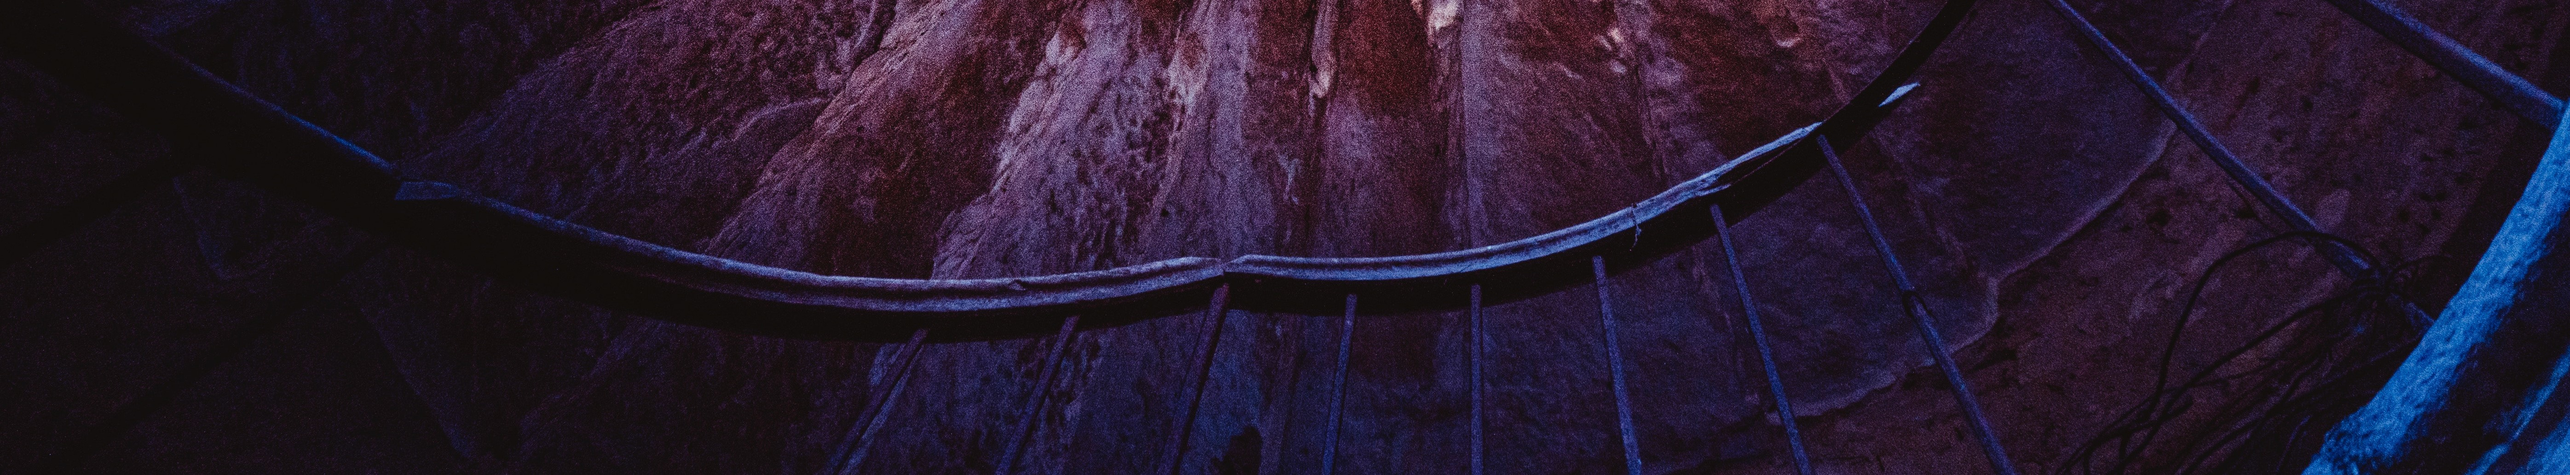
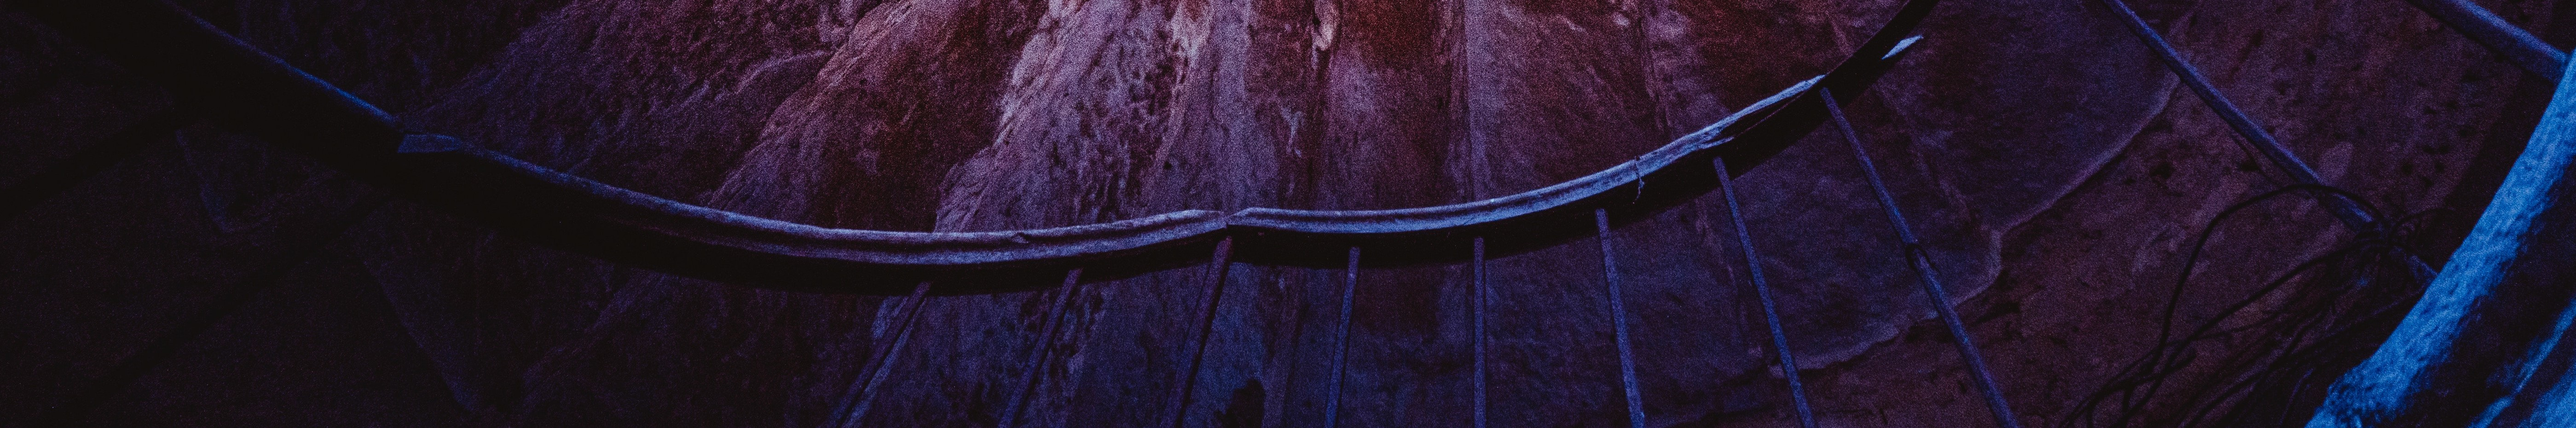
Content section started
Change home page gradient and added a knife. Also, started the content section adding the about me.

diff --git a/src/components/HomeComponents/content.js b/src/components/HomeComponents/content.js
@@ -1,18 +1,22 @@
 import React from 'react';
 import styled from 'styled-components';
 import { Container } from 'react-bootstrap';
+
 import ser from './content.jpg';
+import selfie from './foto.jpg';
+
 
 const Content = (props) => {
+
     const Styles = styled.div`
     .container 
     {   
         display: flex;
-        flex-direction: column;
+        flex-direction: row;
         margin-top: 50px;
         z-index: 5;
         color: white;
-        align-content: center;
+    
 
 
     }
@@ -27,43 +31,123 @@ const Content = (props) => {
         right: 0;
         z-index: -3;
         position: fixed;
+
         }
 
         .about 
         {
-            margin-top: -210px;
-            text-align: center;
-            color: #fd7c30;
+            margin-top: 90px;
+            text-align: center;            
+            color: white;
             font-size: 3.5rem;
-            font-family: 'Raleway', sans-serif;
+            font-family: 'Roboto', sans-serif;
             font-weight: 300;
+            z-index: 1;
+            
+           
+
+        }
+
+        .quote
+        {
+            margin-top: 140px;
+            font-family: "Roboto", sans-serif;
+            font-weight: 400px;
+            font-size: 3rem;
+            color: #0d1c4f;
+            margin-right: 70px;
+            text-align: center;
         }
 
         .circle
         {
-        margin-top:40.5px;
-        height: 250px;
-        width:1515px;
-        border-radius: 0 0 1500px 1500px;
+    
         background-image: url(${ser});
         background-size: 100%;
-        margin-left: -218px;
-        
-        z-index: -3;
+        background: contain;
+        height: 240px;
+        width: 1520px;
+        background-repeat: no-repeat;
+        margin-top: 60px;
+        clip-path: polygon(100% 0, 100% 100%, 0% 0%);
+        z-index: 2;
+        float: left;
+        margin-left: -220px;
+    }
 
-        }
+    .circle1
+        {
+    
+        background-color: #FAFAFA;
+        height: 240px;
+        width: 1520px;
+        margin-top: -237.5px;
+        clip-path: polygon(0 100%, 100% 100%, 0% 0%);
+        float: left;
+        margin-left: -220px;
+        z-index: 2;
+        opacity: 1;
+        position: relative;
+    }
+
+    .gradient
+    {
+      margin-top: 541px;
+      background: rgb(13,28,79);
+      background: linear-gradient(0deg, rgba(13,28,79,1) 3%, rgba(51,8,84,0.6139589624912465) 100%); 
+            top: 0;
+      left: 0;
+      bottom: -240px;
+      right: 0;
+      z-index: 1;
+      position: absolute;
+    }
+
+       
+    .selfie
+    {
+        background-image: url(${selfie});
+        background-size: 100%;
+        background: contain;
+        height: 300px;
+        width: 300px;
+        margin-top: 100px;
+        border-radius: 50%;
+        
+    }
+
+    .selfbg
+    {
+    
+        
+        width: 300px;
+        height: 300px;
+        margin-top: 100px;
+        margin-left: -30px;
+        border-radius: 50%;
+        background: rgb(121,36,106);
+        background: linear-gradient(138deg, rgba(121,36,106,1) 0%, rgba(13,28,79,1) 99%); 
+        
+        
+    }
     `;
 
     return(
         <Styles>
            <div className="back"></div>
            <div className="circle"></div>
+           <div className="circle1"></div>
+           <div className='gradient'></div>
             <Container>
             
-            <h1 className="about">About Me</h1>
-            
-            
+            <h1 className="quote">"Where nobody can see, <br/> I find a way."</h1>
+            <div className="selfie">            </div>
             </Container>
+
+            <Container>
+                <div className="selfbg"></div>
+            </Container>
+            
         </Styles>
 
     );

diff --git a/src/components/HomeComponents/body.js b/src/components/HomeComponents/body.js
@@ -6,6 +6,8 @@ import Content from './content';
 import boatImage from './bg1.jpg';
 
 
+
+
 const Body = (props) => {
     const Styles = styled.div`
 
@@ -29,11 +31,12 @@ const Body = (props) => {
         bottom: 0;
         right: 0;
         position: absolute;
-        margin-top: 548.5px;
+        margin-top: 541.5px;
         z-index: 1;
 
     }
 
+    
    
 
     .adel 
@@ -46,21 +49,14 @@ const Body = (props) => {
         z-index: 2;
         text-align: center;
         opacity: 0.9;
+        
 
         }
 
-     .gradient
-     {
-      margin-top: 548.5px;
-      background-image: linear-gradient(to bottom, #472261 , #0d1c4f);
-      opacity: 0.5;
-      top: 0;
-      left: 0;
-      bottom: 0;
-      right: 0;
-      z-index: 2;
-      position: absolute;
-    }
+    
+
+    
+    
     
 `;
     
@@ -68,7 +64,8 @@ const Body = (props) => {
     return (
         <Styles>
             <div className='blur'></div>
-            <div className="gradient"></div>
+            
+            
         <Container>  
         <h1 className="adel">Natural Language<br /> Processing.</h1>
         <h1 className="adel">Deep and Machine <br />Learning.</h1>

diff --git a/src/Home.js b/src/Home.js
@@ -40,7 +40,6 @@ export const Home = () => (
     <Container>
       <Header />
        <div className='bg'></div>
-       <div className='overlay1'></div>
       <Body/>
   </Container>
   </Styles>
